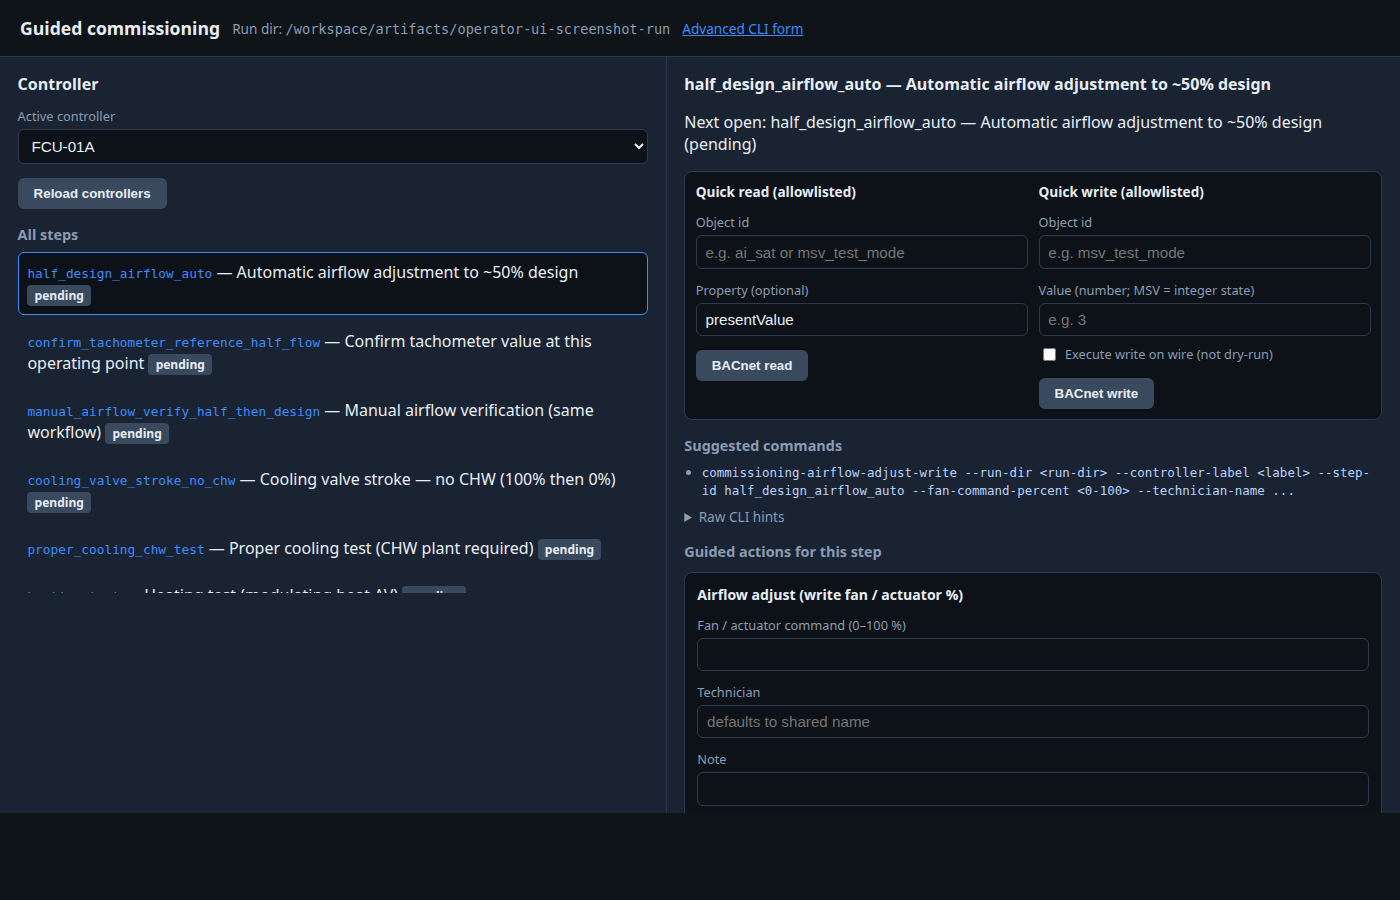
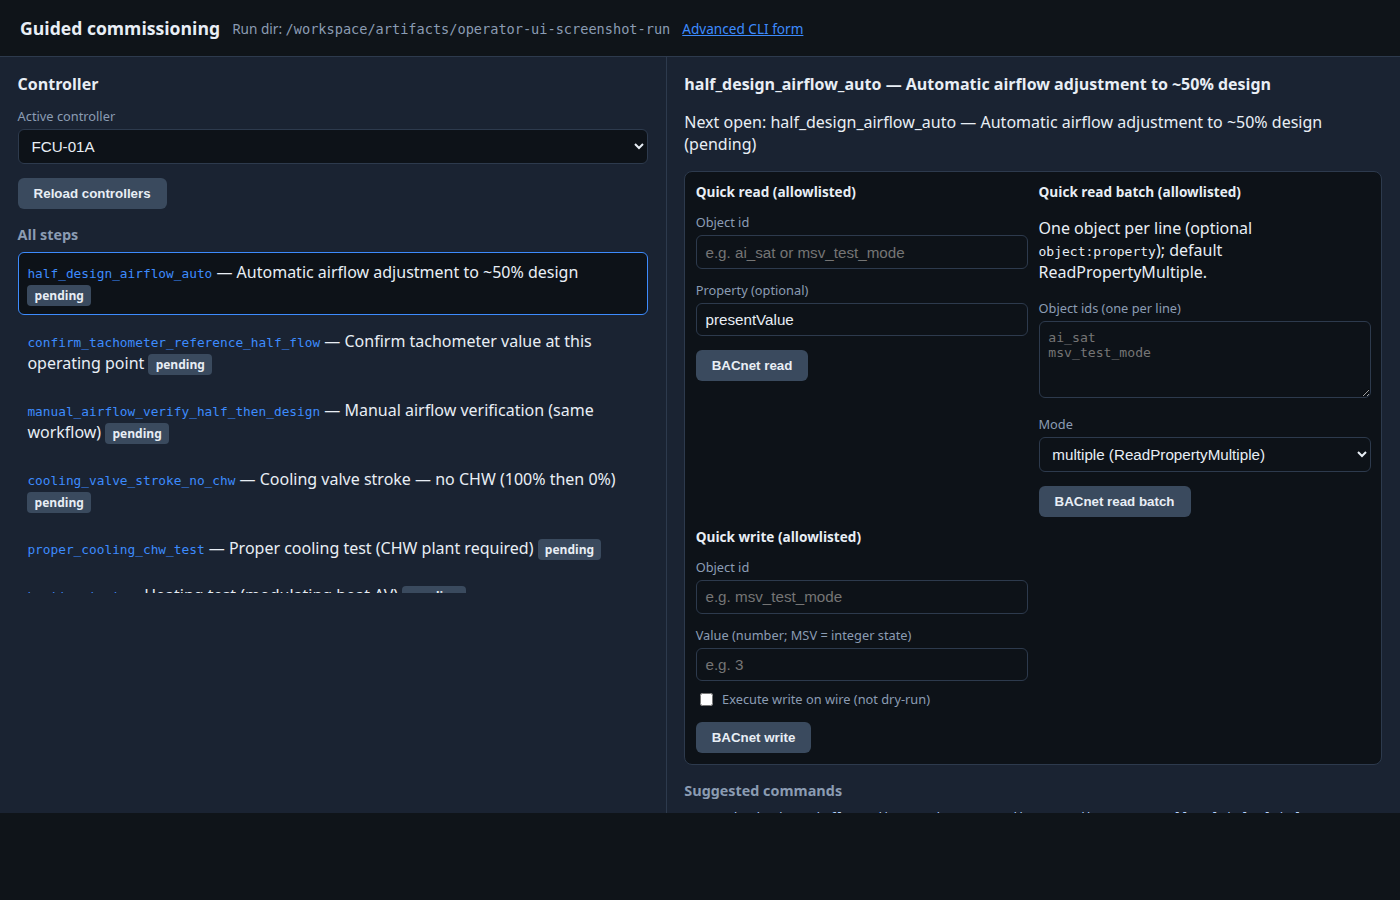
Docs and CI: post-v1 plan parity, optional compile benchmark, screenshot
- Post-v1 roadmap: Tier C4 read batch/RPM, A4 manual workflow, B2 quick read batch
- Open questions: align log format with ADR 0017 JSONL rotation
- workflow_dispatch compile-benchmark-dispatch (default 500 rows)
- Regenerate operator-guided-ui-wide.png for new guided strip; update SHA test

Changed region(s): [[0.4914, 0.2178, 1.0, 0.9022], [0.7679, 0.1867, 0.8907, 0.2178]]

diff --git a/tests/test_operator_guided_screenshots_checksums.py b/tests/test_operator_guided_screenshots_checksums.py
@@ -18,7 +18,7 @@ ROOT = pathlib.Path(__file__).resolve().parents[1]
 
 _EXPECTED_SHA256 = {
     "operator-guided-ui-wide.png": (
[2 lines of base64/hex data omitted]
     ),
     "operator-guided-ui-mobile.png": (
[1 lines of base64/hex data omitted]

diff --git a/docs/plans/2026-04-28-post-v1-ui-airflow-reports-bacnet-lab.md b/docs/plans/2026-04-28-post-v1-ui-airflow-reports-bacnet-lab.md
@@ -19,7 +19,7 @@ These mostly extend **existing** CLI, exports, or profiles without new transport
 | A1 | **Customer PDF polish** (sections, title block, optional multi-sheet XLSX) | fpdf2 + openpyxl already in tree; layout code is local | **`--output-customer-pdf`:** cover page (job_id, schema, generated UTC, logo) + modulation table + optional notes page from modulation entry `note` fields. **`--output-xlsx --xlsx-include-modulation`:** second sheet `modulation`. | Shipped **2026-04-28**; see `docs/packaging/release-checklist.md` |
 | A2 | **Charts in HTML export** (not PDF first) | Browsers handle SVG/Canvas; no new Python chart deps if using simple SVG | **`--output-html`:** after `thermal_modulation_sweep` rows with `ai_sat` read_ok, inline SVG per controller (command % vs SAT polyline). | Shipped **2026-04-28**; `tests/test_commissioning_html_modulation_charts.py` |
 | A3 | **`commissioning-guided-next` → richer JSON** | Already shipped thin slice | Each step includes **`suggested_cli_commands`** (strings) and **`blocked_reasons`** (prereq / `skip_when` gates); compact row already had **`requires_step_ids`** when present. | Shipped **2026-04-28**; `tests/test_runtime_cli.py` |
-| A4 | **Large-sheet compiler targets** | `benchmark_compile.py` exists | **SLO** documented in `docs/project.md` (developer machine, CPython 3.12); CI keeps **`--rows 120`** smoke. Optional `workflow_dispatch` benchmark: backlog unless CI noise is acceptable. | Shipped **2026-04-28** (doc targets); optional workflow still open |
+| A4 | **Large-sheet compiler targets** | `benchmark_compile.py` exists | **SLO** documented in `docs/project.md` (developer machine, CPython 3.12); CI keeps **`--rows 120`** smoke. Optional **`workflow_dispatch`** job **`compile-benchmark-dispatch.yml`** (default **500** rows; override in Actions UI). | Shipped **2026-04-28** (doc targets + manual workflow **2026-04-25**) |
 
 ---
 
@@ -28,7 +28,7 @@ These mostly extend **existing** CLI, exports, or profiles without new transport
 | # | Item | Why harder | Suggested approach | Done when |
 |---|------|------------|---------------------|-----------|
 | B1 | **Closed-loop assisted airflow** (tool drives fan toward target L/s using measured feedback) | Needs stable measurement cadence, safety bounds, and profile contract for “stop” conditions | **`commissioning-airflow-closed-loop-iterate`** + profile **`automatic_airflow_adjustment.closed_loop`** (BACnet flow read + iterative fan %). | Shipped **2026-04-28**; ADR 0013 §6; `tests/test_runtime_cli.py` |
-| B2 | **Guided operator UI** (minimal desktop shell) | Packaging, state sync with run-dir, UX scope | **`operator-gui`** (stdlib **HTTPServer**): **`/guided`** flow UI + **`/`** CLI form; **`desktop/tauri-operator/`** **Tauri 2** shell (Rust spawns **`python3 tools/runtime/app.py`**; see **`docs/packaging/tauri-operator-desktop.md`**). | Shipped **2026-04-28**; guided UI expanded **2026-04-25**; README screenshots + **CI checksum** for PNGs (**`tools/packaging/capture_operator_guided_screenshots.sh`**) |
+| B2 | **Guided operator UI** (minimal desktop shell) | Packaging, state sync with run-dir, UX scope | **`operator-gui`** (stdlib **HTTPServer**): **`/guided`** flow UI + **`/`** CLI form; **`desktop/tauri-operator/`** **Tauri 2** shell (Rust spawns **`python3 tools/runtime/app.py`**; see **`docs/packaging/tauri-operator-desktop.md`**). | Shipped **2026-04-28**; guided UI expanded **2026-04-25**; **Quick read batch** → **`bacnet-read-batch`**; README screenshots + **CI checksum** for PNGs (**`tools/packaging/capture_operator_guided_screenshots.sh`**) |
 | B3 | **RAT / HRV proxy rules** | Product policy + validation warnings | Profile **`rat_temperature_proxy`** (`enabled`, `proxy_controller_label`, `proxy_read_object_id`); **`compile-import`** copies into **`commissioning_meta`** and emits **`rat_temperature_proxy_*`** warnings when misconfigured. | Shipped **2026-04-28**; `tests/test_import_compiler.py` |
 
 ---
@@ -40,14 +40,13 @@ These mostly extend **existing** CLI, exports, or profiles without new transport
 | C1 | **BBMD / foreign device** | Isolated /24 + BBMD + sidecar **ForeignApplication** probe | **`bacnet-bbmd-lab`** profile, **`tools/simulator/docker_bbmd_lab_smoke.sh`**, **ADR 0015** |
 | C2 | **macvlan “lab” profile** | Bench-only overlay | **`docker-compose.macvlan.example.yml`**, **`docs/simulator/macvlan-lab.md`** |
 | C3 | **COV / subscribe, write batching** | Sim SubscribeCOV + **`bacnet-write-batch`** (`sequential` or **`multiple`** = WritePropertyMultiple) | **`bacnet-subscribe-cov`**, **`bacnet-write-batch`**, **`docker_bacnet_smoke.sh`** |
+| C4 | **Read batch + RPM** | **`bacnet-read-batch`** (default ReadPropertyMultiple); **`bacnet-point-checkout`** / **`record-step`** checkout use RPM when ≥2 points (**ADR 0016**); lab sim RPM; **`/guided`** quick read batch | **`bacnet-read-batch`**, **`docker_bacnet_smoke.sh`**, **`operator-gui`**, **ADR 0016** / **ADR 0018** |
 
 ### Tier C — follow-on backlog (not shipped)
 
 | Item | Notes |
 |------|--------|
 | **Multi-BBMD / distributed BDT** | More than one BBMD peer table row, NAT-BBMD, or production FDT policy—needs site-driven ADR. |
-
-**Shipped follow-on:** **ReadPropertyMultiple** — `CommissioningBACnetAdapter.read_present_values_property_multiple`; **`bacnet-point-checkout`** and automatic **`record-step`** checkout batch with one RPM when two or more points resolve (**ADR 0016**); Docker lab sim handles RPM for present-value.
 
 ---
 
@@ -58,7 +57,7 @@ These mostly extend **existing** CLI, exports, or profiles without new transport
 3. **B1** once profile keys and safety caps are agreed (`docs/project.md` + example profile).  
 4. **B2a** then **B2b** (UI after JSON hints are stable).  
 5. **B3** when a site asks for HRV↔FCU RAT linkage.  
-6. **C1–C3** shipped (**ADR 0015**, including **WritePropertyMultiple** on **`bacnet-write-batch --mode multiple`**); use the **Tier C follow-on** table above for the next transport slices.
+6. **C1–C4** shipped (**ADR 0015**–**0018**); use the **Tier C follow-on** table above for the next transport slices (multi-BBMD, …).
 
 ### Tauri packaging (optional extras, deferred)
 
@@ -85,3 +84,4 @@ The **Tauri operator** CI ships **Ubuntu `.deb`** and **Windows NSIS** artifacts
 - **2026-04-25:** **WritePropertyMultiple** path: lab sim + **`bacnet-write-batch --mode multiple`** + CI smoke; ADR 0015 updated.
 - **2026-04-25:** **`operator-gui` `/guided`** — graphical commissioning flow (controllers, steps, blockers, session, record-step, point checkout API).
 - **2026-04-25:** Guided UI **screenshots in README** + **`capture_operator_guided_screenshots.sh check`** in CI; PNG SHA-256 unit test.
+- **2026-04-24:** **`events.jsonl`** size rotation (**ADR 0017**); **`bacnet-read-batch`** + guided **quick read batch**; Tier **C4** + plan cleanup; **`.github/workflows/compile-benchmark-dispatch.yml`** for manual compile bench.

diff --git a/docs/project.md b/docs/project.md
@@ -257,4 +257,4 @@ These are the main gaps once requirements feel “complete enough” to start co
 - **Half-design reference:** optional hysteresis when comparing **live tachometer value** to the **session-stored** value captured after auto-adjust + operator confirm.
 - **Bluetooth / external sensors:** deferred — pairing, calibration, audit trail (who accepted which reading).
 - **PDF / XLSX stack:** **locked for v1** — **openpyxl** (XLSX), **fpdf2** (PDF table); see **ADR 0010** and `requirements.txt`.
-- **Log format:** binary, JSON lines, CSV, or rotating text; retention on disk.
+- **Log format:** JSON Lines per run (**`logs/events.jsonl`**) with optional **size-based rotation** (**ADR 0017**); binary or other encodings not planned for v1.